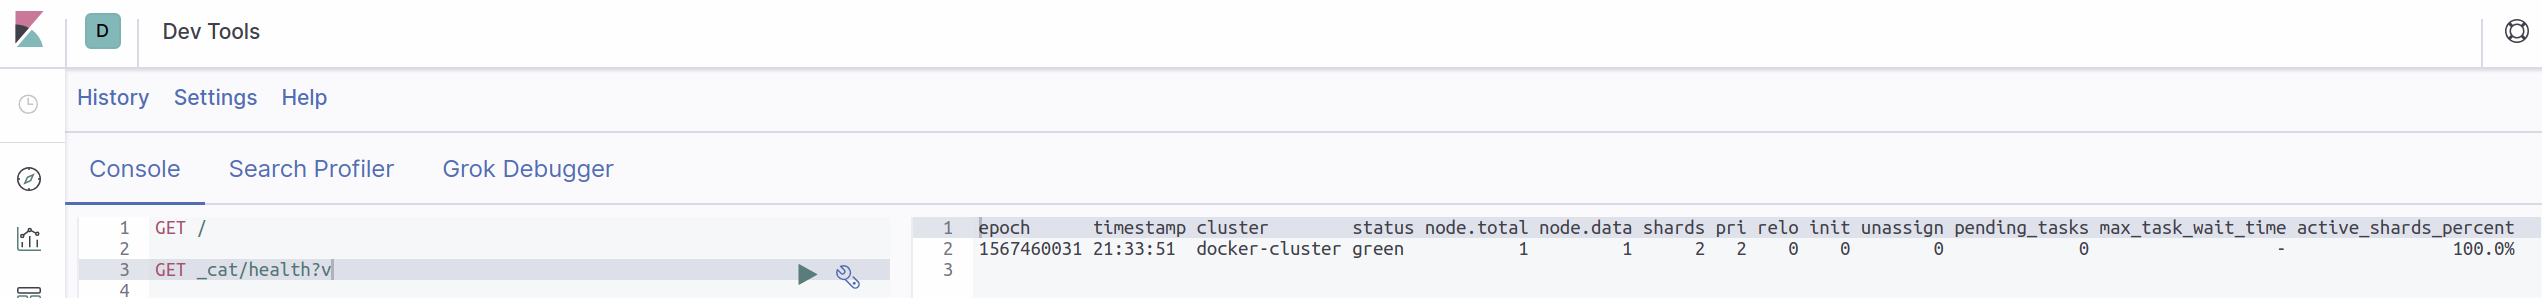
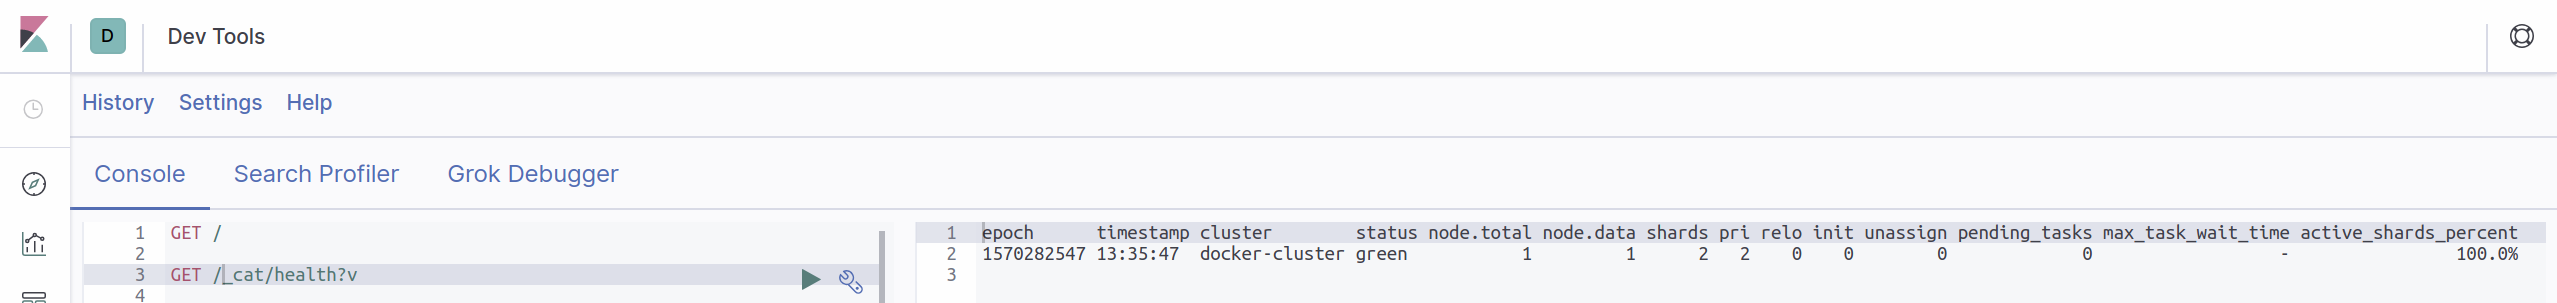
Initial commit

diff --git a/README.md b/README.md
@@ -36,8 +36,12 @@ The content are as follows:
     * [Specific query](#specific-query)
 * [Kibana](#kibana)
     * [Useful commands](#useful-commands)
+    * [Leading slashes](#leading-slashes)
+    * [Human-readable output](#human-readable-output)
     * [Intellisense](#intellisense)
     * [Kibana tools](#kibana-tools)
+    * [Ctrl-F is your friend](#ctrl-f-is-your-friend)
+    * [Debugging](#debugging)
 * [Searches](#searches)
     * [How to override the 10,000 items query limit](#how-to-override-the-10000-items-query-limit)
     * [Case](#case)
@@ -49,6 +53,7 @@ The content are as follows:
     * [DELETE individual item](#delete-individual-item)
     * [DELETE items](#delete-items)
 * [Bulk loading](#bulk-loading)
+* [Index/Alias problems](#indexalias-problems)
 * [Aggregates](#aggregates)
 * [Podcasts](#podcasts)
     * [SE-Radio](#se-radio)
@@ -362,6 +367,8 @@ Response:
 }
 ```
 
+[This should exactly match what we got from our ES cluster via our http://localhost:9200 URL.]
+
 Note the version number (affects API calls, etc) which is __7.3.1__.
 
 There were breaking changes going from 6.x.x versions -> 7.x.x versions, so keep [Semantic Versioning](http://semver.org/) in mind.
@@ -373,7 +380,7 @@ Let's check the health of our cluster:
 From the Kibana __Dev Tools__ console:
 
 ```
-GET _cat/health?v
+GET /_cat/health?v
 ```
 
 Which should look something like the following:
@@ -824,33 +831,42 @@ Check cluster is running:
 
 Check cluster health:
 
-    GET _cat/health?v
+    GET /_cat/health?v
 
 List all indices:
 
-    GET _cat/indices?v
+    GET /_cat/indices?v
 
 List all aliases:
 
-    GET _cat/aliases?v
+    GET /_cat/aliases?v
 
 List an index's aliases, mappings and settings:
 
-    GET some_index
+    GET /some_index
 
 List _only_ an index's mappings:
 
-    GET some_index/_mapping
+    GET /some_index/_mapping
+
+    GET /some_alias/_mapping
 
 How to check a field's mapping:
 
-    GET some_index/_mapping/field/some_field
+    GET /some_index/_mapping/field/some_field
 
-In general leading slashes may be omitted.
+    GET /some_alias/_mapping/field/some_field
+
+#### Leading slashes
+
+In general leading slashes may be omitted. However, as they are *sometimes* needed,
+perhaps a better practice is to get into the habit of ___always___ using a leading slash.
+
+#### Human-readable output
 
 For human-readable output add __?v__ to the end of the initial line:
 
-    GET _cat/indices
+    GET /_cat/indices
 
 Gives:
 
@@ -862,7 +878,7 @@ green  open .kibana_1            Un0M5PpqTlWDlib_qmsXGw 1 0 4 1 23.9kb 23.9kb
 
 While:
 
-    GET _cat/indices?v
+    GET /_cat/indices?v
 
 Gives:
 
@@ -889,6 +905,26 @@ cURL (from Spanner - 'Copy as cURL'):
 	curl -XGET "http://localhost:9200/school/_search?q=rating:4.5"
 
 The 'Auto indent' feature is also useful - it toggles between expanded and compact formats.
+It will only work for correctly-formatted JSON, which can be a quick and convenient way to
+check for correctly-formed JSON.
+
+#### Ctrl-F is your friend
+
+The workspaces in Kibana can get pretty crowded very quickly, so being able to find things
+via ___searching___ is a very nice feature. It is possible to search in both the __query__
+and the __results__ panels, as the following screencap shows:
+
+![Ctrl-F is your friend](images/Ctrl-F_is_your_friend.png)
+
+#### Debugging
+
+Although the Kibana workspace can include dozens of queries, the results panel will always
+refer to the current Elasticsearch command as if it had been executed in isolation.
+
+Spacing out your query so it starts on a line ending in a __1__ should make debugging and
+problems slightly easier, as the following annotated screencap shows:
+
+![Dealing in tens](images/Dealing_in_tens.png)
 
 ## Searches
 
@@ -1160,6 +1196,15 @@ $ curl -H "Content-Type: application/x-ndjson" -XPOST localhost:9200/school/_bul
 ```
 
 [The __?pretty__ option means pretty-print the output. This can be omitted. Can optionally add the `--silent` option to curl.]
+
+## Index/Alias problems
+
+It is quite easy to get into a chicken & egg situation with indices and aliases. Apparently this is a common enough
+problem that there is a pretty easy fix:
+
+![Index/Alias remapping](images/Index_Alias.png)
+
+From: https://www.elastic.co/guide/en/elasticsearch/reference/current/indices-aliases.html
 
 ## Aggregates
 
